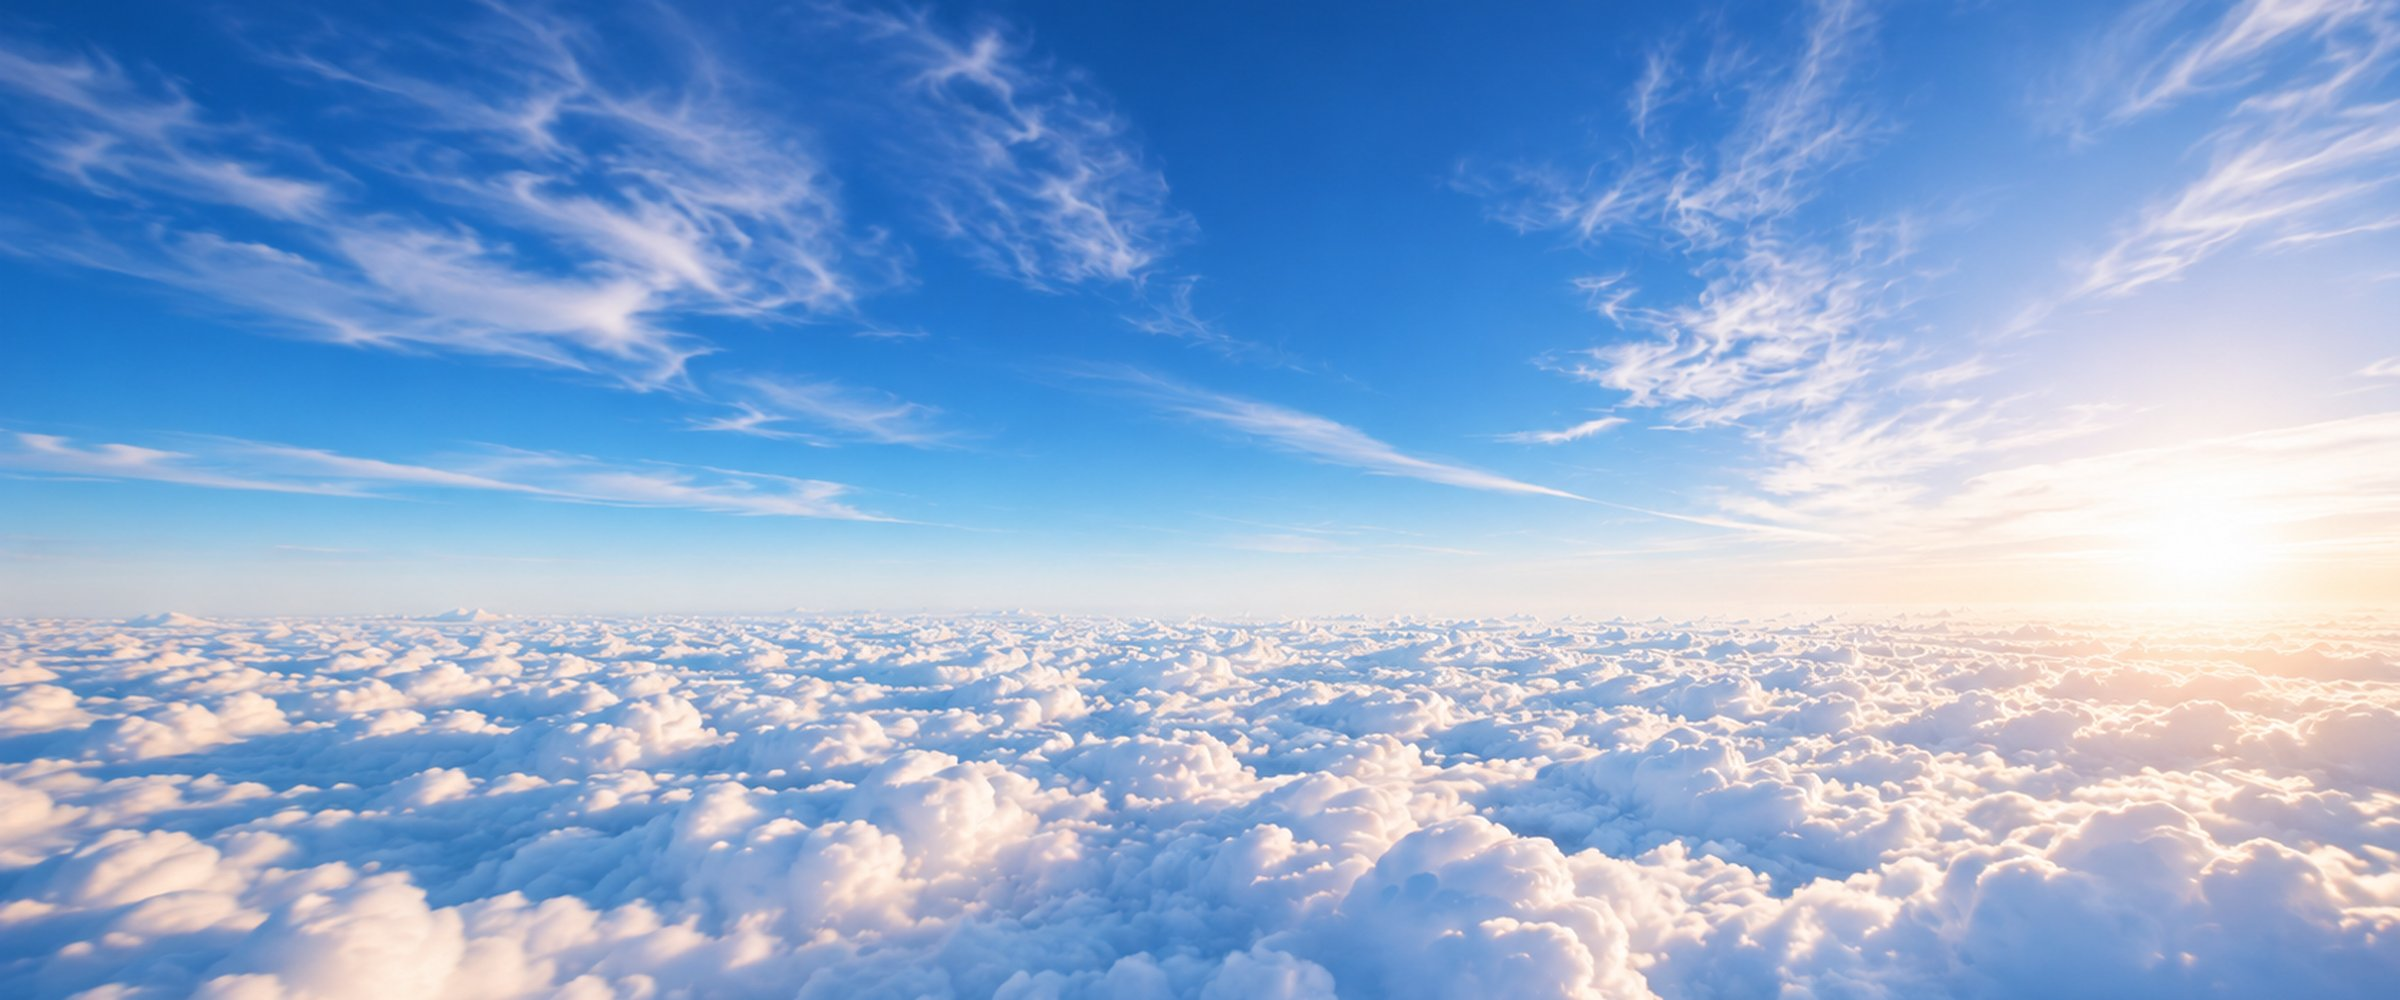
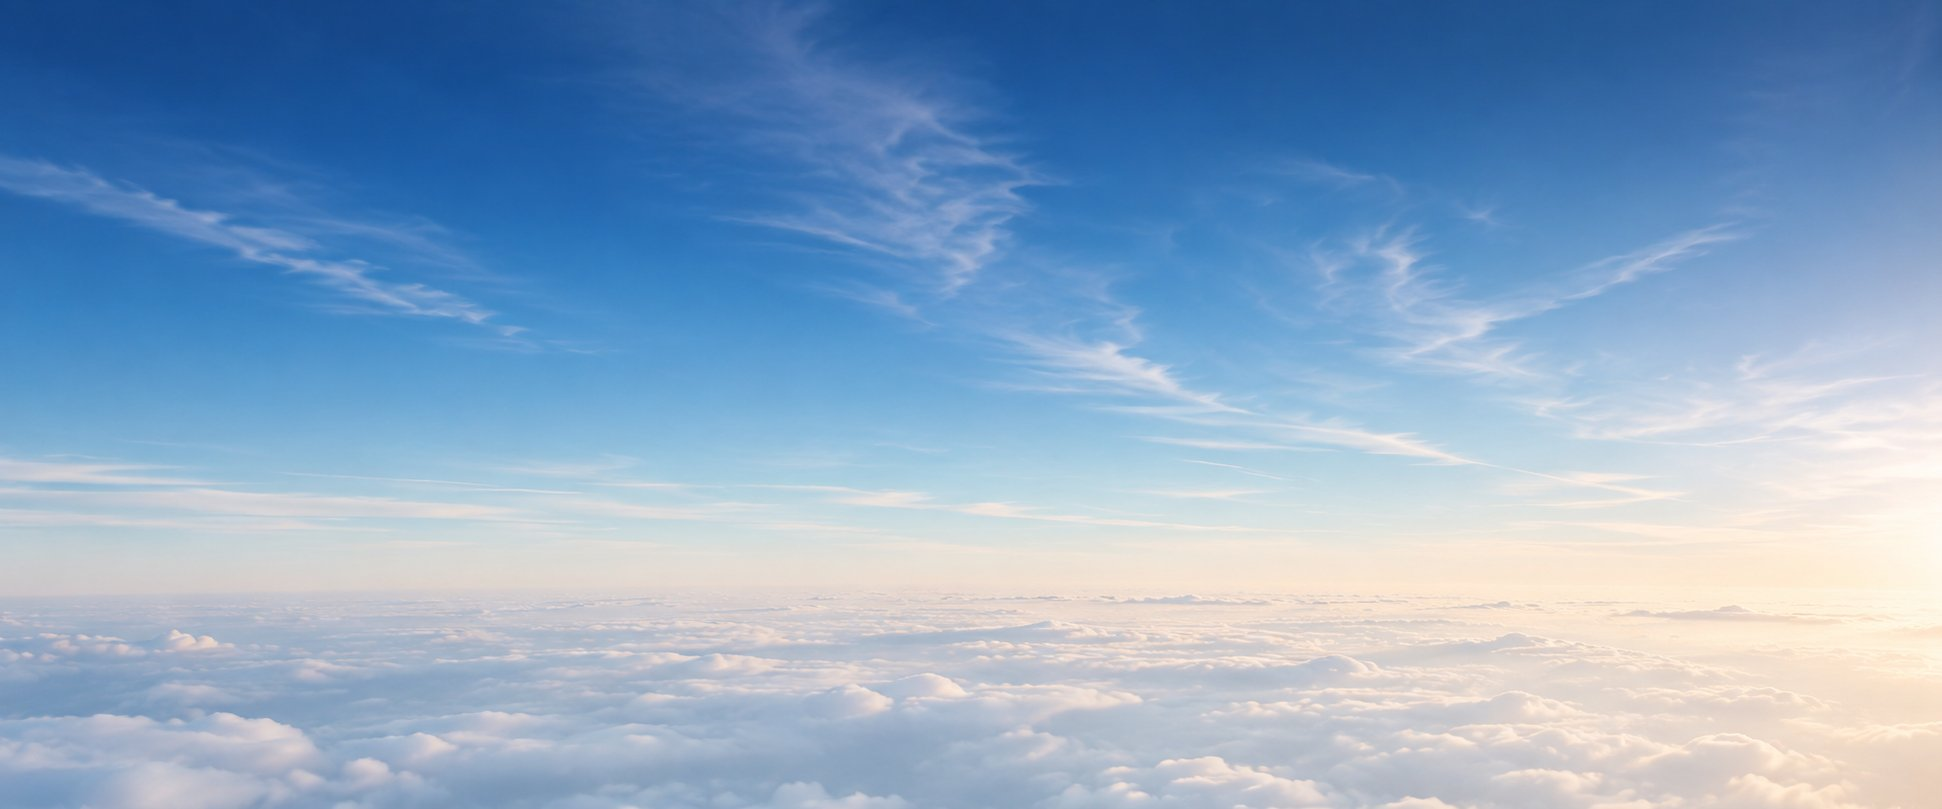
feat(hero): 하늘 이미지를 더 실사에 가까운 사진으로 교체 + 패닝 속도 증가
- hero-sky-pan.jpg 교체 (사용자 제공 신규 이미지)
- 패닝 애니메이션 9s→3.2s, 좌우 이동폭 ±4%→±10%로 확대해 비행 중인
  느낌이 훨씬 역동적으로 느껴지도록 함

diff --git a/index.html b/index.html
@@ -1353,11 +1353,11 @@
       position: absolute; top: 50%; left: 50%;
       height: 130%; width: auto; max-width: none;
       transform: translate(-50%, -50%);
-      animation: hero-window-drift 9s ease-in-out infinite alternate;
+      animation: hero-window-drift 3.2s ease-in-out infinite alternate;
     }
     @keyframes hero-window-drift {
-      0%   { margin-left: -4%; }
-      100% { margin-left: 4%; }
+      0%   { margin-left: -10%; }
+      100% { margin-left: 10%; }
     }
     .hero-window-frame {
       display: block;